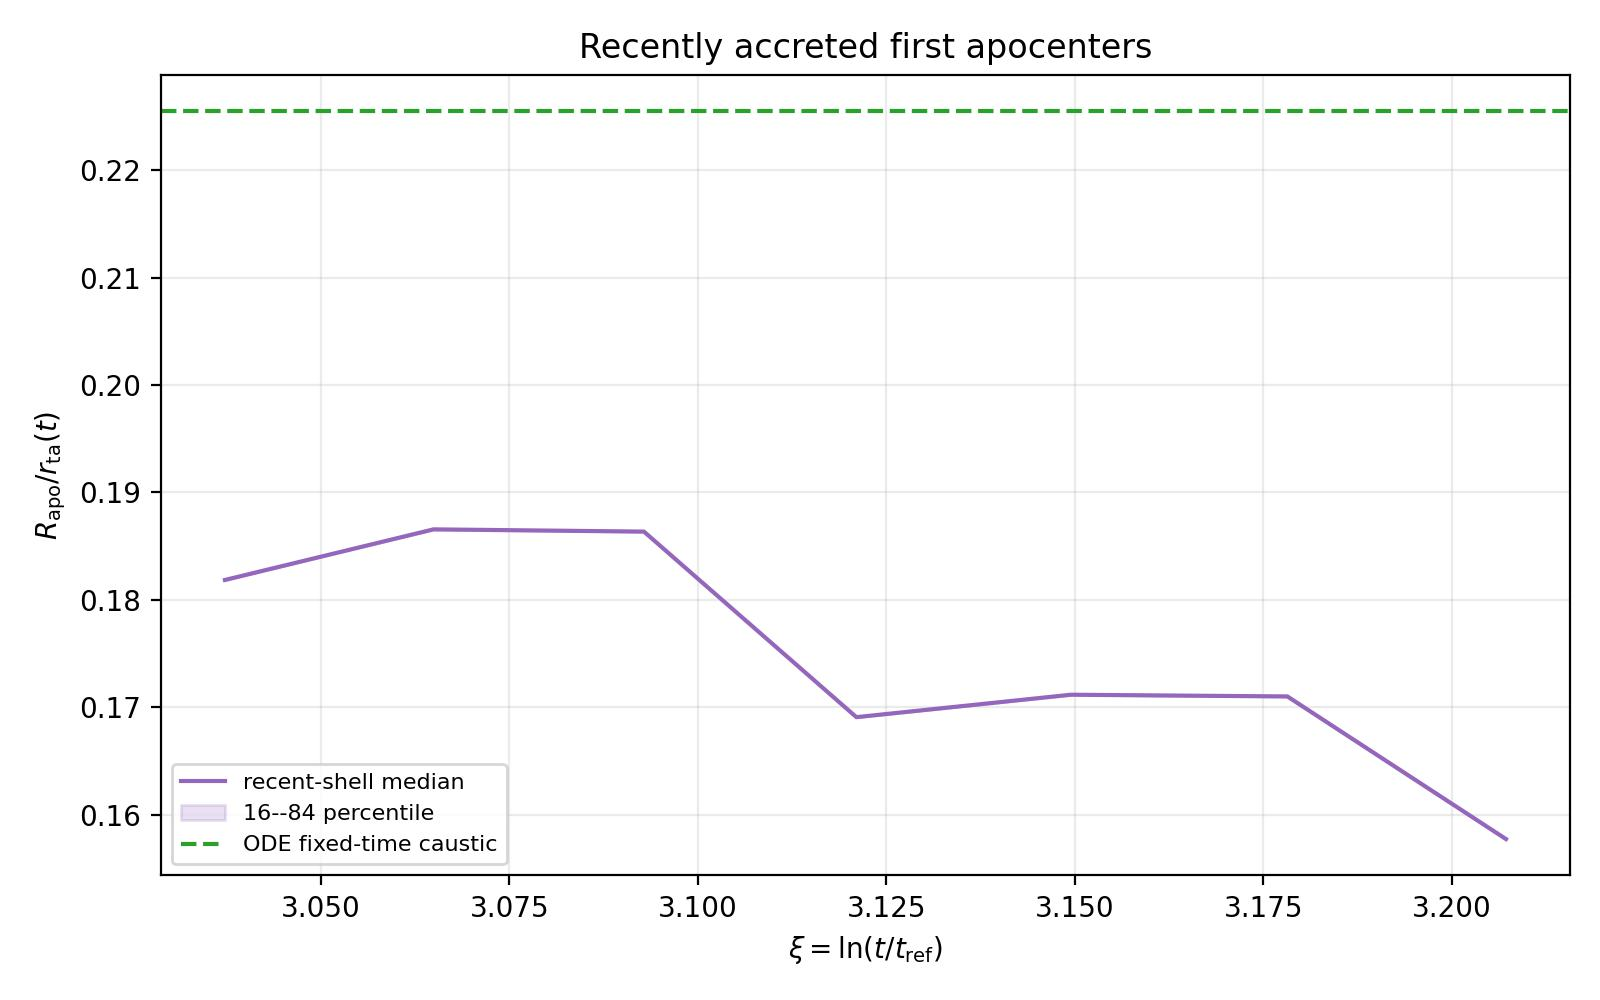
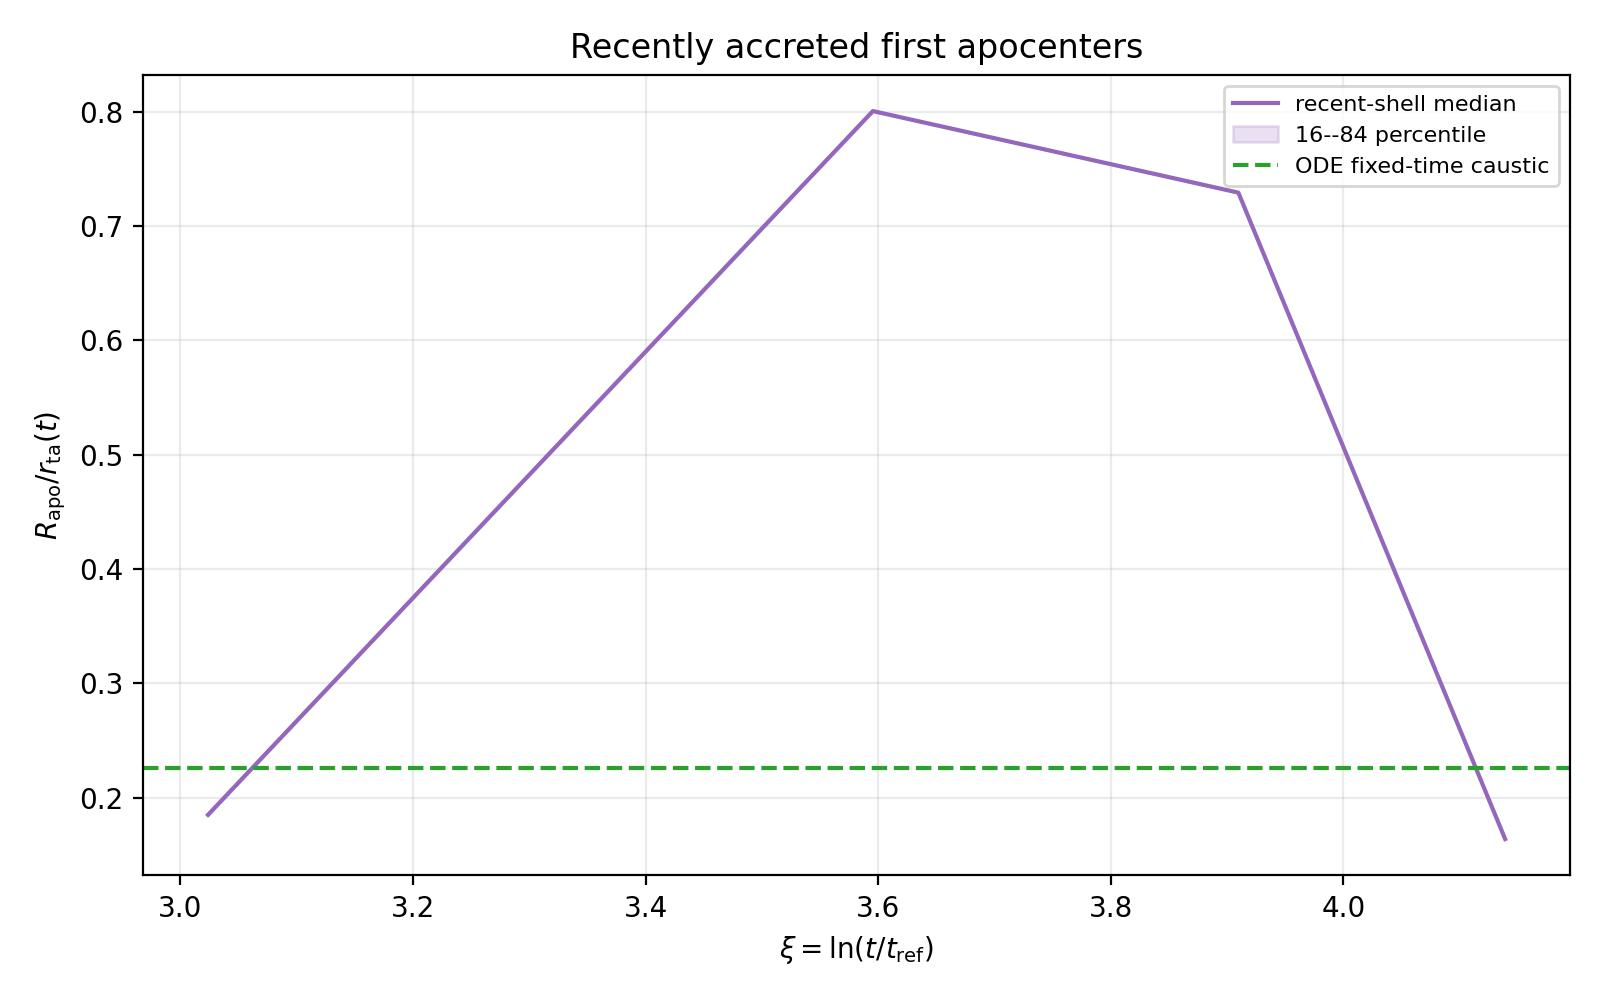
bertschinger solution with shell tracker

diff --git a/example/BertschingerReference/bertschinger_shell_ode_comparison.py b/example/BertschingerReference/bertschinger_shell_ode_comparison.py
@@ -189,6 +189,8 @@ def run_comparison(config_filename=DEFAULT_CONFIG):
     turnaround_values = []
     caustic_values = []
     apocentre_values = []
+    apocentre_event_xi = np.empty(0)
+    apocentre_event_lambda = np.empty(0)
     slope_profiles = []
     profile_targets = np.asarray([1.5, 2.0, 2.5, 3.0, 4.0, 5.0])
     next_profile = 0
@@ -241,14 +243,6 @@ def run_comparison(config_filename=DEFAULT_CONFIG):
                                  np.log(cosmic_time / initial_time)))
         lambda_values.extend((radius[selected] / turnaround).tolist())
         turnaround_values.append((cosmic_time, turnaround))
-        recent_apo = tracker.recent_first_apocenters(cosmic_time)
-        if recent_apo.size:
-            apocentre_values.append((
-                np.log(cosmic_time / initial_time),
-                np.median(recent_apo),
-                np.percentile(recent_apo, 16.0),
-                np.percentile(recent_apo, 84.0),
-                recent_apo.size, turnaround))
         caustic = _outer_lagrangian_caustic_radius(
             shells, initial_q, cosmic_time, cosmology,
             turnaround, smoothing_bins=caustic_smoothing)
@@ -323,8 +317,30 @@ def run_comparison(config_filename=DEFAULT_CONFIG):
             ode_outer_caustic_xi=caustic_xi,
             ode_outer_caustic_lambda=caustic_lambda,
         )
+    # Bin first-apocentre events by the time at which they occur. Normalize
+    # each event with r_ta at that same time, not with the later output
+    # turnaround radius.
+    apocentre_events = tracker.first_apocenter_events()
+    if apocentre_events.size and len(turnaround_values) >= 2:
+        ta_history = np.asarray(turnaround_values, dtype=float)
+        event_time = apocentre_events[:, 0]
+        event_ta = np.interp(event_time, ta_history[:, 0], ta_history[:, 1])
+        event_lambda = apocentre_events[:, 1] / event_ta
+        apocentre_event_xi = np.log(event_time / initial_time)
+        apocentre_event_lambda = event_lambda
+        bins = []
+        for lower, upper in zip(ta_history[:-1, 0], ta_history[1:, 0]):
+            selected = (event_time >= lower) & (event_time < upper)
+            if not np.any(selected):
+                continue
+            values = event_lambda[selected]
+            bins.append((np.log(0.5 * (lower + upper) / initial_time),
+                         np.median(values), np.percentile(values, 16.0),
+                         np.percentile(values, 84.0), values.size,
+                         np.interp(0.5 * (lower + upper), ta_history[:, 0],
+                                   ta_history[:, 1])))
+        apocentre_values = np.asarray(bins)
     if len(apocentre_values):
-        apocentre_values = np.asarray(apocentre_values)
         np.savez(
             Path(runparams['savedir']) / 'BertschingerRecentApocenters.npz',
             xi=apocentre_values[:, 0],
@@ -333,21 +349,17 @@ def run_comparison(config_filename=DEFAULT_CONFIG):
             radius_p84=apocentre_values[:, 3],
             number_of_shells=apocentre_values[:, 4],
             turnaround_radius=apocentre_values[:, 5],
-            lambda_median=(apocentre_values[:, 1] /
-                           apocentre_values[:, 5]),
-            lambda_p16=(apocentre_values[:, 2] /
-                        apocentre_values[:, 5]),
-            lambda_p84=(apocentre_values[:, 3] /
-                        apocentre_values[:, 5]),
+            lambda_median=apocentre_values[:, 1],
+            lambda_p16=apocentre_values[:, 2],
+            lambda_p84=apocentre_values[:, 3],
         )
         orbit_figure, orbit_axis = plt.subplots(figsize=(8, 5))
         orbit_axis.plot(apocentre_values[:, 0],
-                        apocentre_values[:, 1] / apocentre_values[:, 5],
+                        apocentre_values[:, 1],
                         color='tab:purple', label='recent-shell median')
         orbit_axis.fill_between(
             apocentre_values[:, 0],
-            apocentre_values[:, 2] / apocentre_values[:, 5],
-            apocentre_values[:, 3] / apocentre_values[:, 5],
+            apocentre_values[:, 2], apocentre_values[:, 3],
             color='tab:purple', alpha=0.2, label='16--84 percentile')
         orbit_axis.axhline(caustic_lambda, color='tab:green', linestyle='--',
                            label='ODE fixed-time caustic')
@@ -446,25 +458,47 @@ def run_comparison(config_filename=DEFAULT_CONFIG):
                                     caustic_lambda=caustic_array[:, 1])
         if len(apocentre_values):
             apo_array = np.asarray(apocentre_values)
-            apo_lambda = apo_array[:, 1] / apo_array[:, 5]
+            # Event values were already normalized by r_ta at each
+            # apocentre time above; do not normalize them a second time.
+            apo_lambda = apo_array[:, 1]
             comparison_axis.plot(
                 apo_array[:, 0], apo_lambda, 's-', color='tab:purple',
                 label=r'recent-shell apocentre median $R_{\rm apo}/R_{\rm ta}$')
             comparison_axis.fill_between(
-                apo_array[:, 0], apo_array[:, 2] / apo_array[:, 5],
-                apo_array[:, 3] / apo_array[:, 5], color='tab:purple',
+                apo_array[:, 0], apo_array[:, 2], apo_array[:, 3],
+                color='tab:purple',
                 alpha=0.18, label='apocentre 16--84 percentile')
             comparison_data.update(
                 apocentre_xi=apo_array[:, 0],
                 apocentre_lambda=apo_lambda,
-                apocentre_lambda_p16=apo_array[:, 2] / apo_array[:, 5],
-                apocentre_lambda_p84=apo_array[:, 3] / apo_array[:, 5],
+                apocentre_lambda_p16=apo_array[:, 2],
+                apocentre_lambda_p84=apo_array[:, 3],
                 apocentre_count=apo_array[:, 4])
+        if len(apocentre_event_xi):
+            comparison_axis.scatter(
+                apocentre_event_xi, apocentre_event_lambda,
+                color='tab:purple', edgecolor='white', linewidth=0.5,
+                s=28, alpha=0.7, zorder=3,
+                label=r'individual events at $\xi_{\rm apo}$')
+            comparison_data.update(
+                apocentre_event_xi=apocentre_event_xi,
+                apocentre_event_lambda=apocentre_event_lambda)
         comparison_axis.axhline(
             caustic_lambda, color='black', linestyle='--', linewidth=1.2,
             label=r'ODE envelope $R_{\rm c}/R_{\rm ta}=%.3f$' % caustic_lambda)
+        comparison_axis.axhline(
+            splashback_lambda, color='tab:red', linestyle=':', linewidth=1.5,
+            label=r'ODE first apocentre $R_{\rm sp}/R_{\rm ta}=%.3f$' %
+                  splashback_lambda)
+        comparison_data.update(ode_splashback_lambda=splashback_lambda,
+                                ode_outer_caustic_lambda=caustic_lambda)
         comparison_axis.set_xlabel(r'$\xi=\ln(t/t_{\rm ref})$')
         comparison_axis.set_ylabel(r'$R/r_{\rm ta}(t)$')
+        time_axis = comparison_axis.secondary_xaxis(
+            'top', functions=(np.exp,
+                              lambda value: np.log(np.maximum(
+                                  value, np.finfo(float).tiny))))
+        time_axis.set_xlabel(r'$t_{\rm apo}/t_{\rm ref}$')
         comparison_axis.set_title('Splashback-radius comparison')
         comparison_axis.grid(alpha=0.25)
         comparison_axis.legend(fontsize=8)

diff --git a/example/BertschingerReference/shell_orbit_tracker.py b/example/BertschingerReference/shell_orbit_tracker.py
@@ -96,3 +96,15 @@ class ShellOrbitTracker:
             if event['accretion'][0] >= threshold:
                 values.append(event['apocentre'][1])
         return np.asarray(values, dtype=float)
+
+    def first_apocenter_events(self):
+        """Return ``(time, radius, accretion_time)`` for completed events."""
+        events = []
+        for event in self.events.values():
+            if event['apocentre'] is None:
+                continue
+            accretion = (np.nan if event['accretion'] is None
+                         else event['accretion'][0])
+            events.append((event['apocentre'][0], event['apocentre'][1],
+                           accretion))
+        return np.asarray(events, dtype=float).reshape((-1, 3))

diff --git a/example/BertschingerReference/README.rst b/example/BertschingerReference/README.rst
@@ -125,7 +125,9 @@ The corresponding smoothed density profiles are plotted in
 The shell tracker records first apocentres of shells that recently crossed
 inward through ``R_200m``. Their median and 16--84 percentile range are
 written to ``BertschingerRecentApocenters.npz`` and plotted in
-``BertschingerRecentApocenters.jpg``.
+``BertschingerRecentApocenters.jpg``. Events are binned by first-apocentre
+time and each radius is normalized by ``r_ta`` interpolated at that event
+time.
 
 The three measurements are compared in
 ``BertschingerSplashbackComparison.jpg`` using ``R/r_ta(t)``: the density
